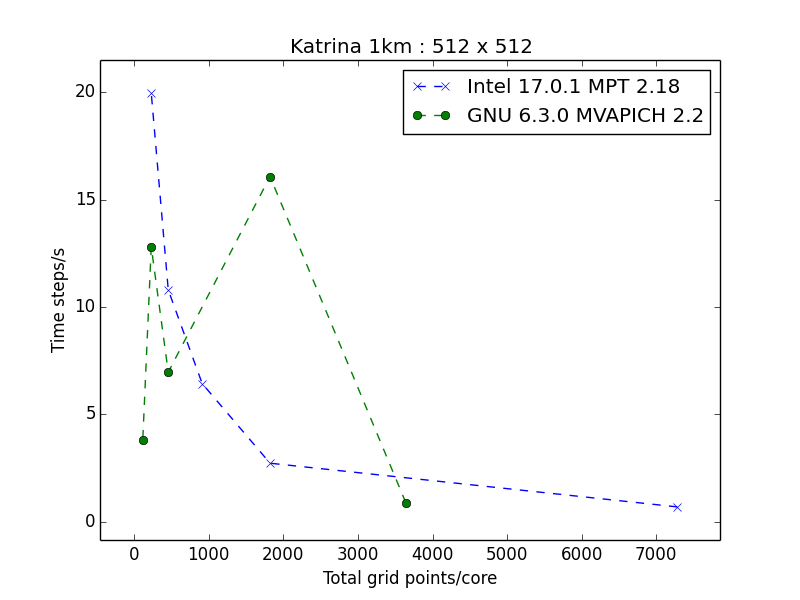
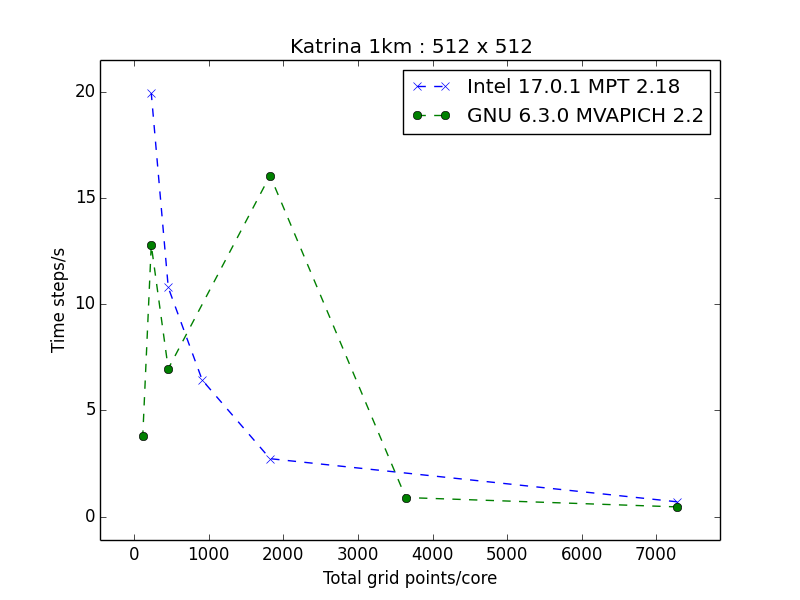
updating results

diff --git a/results/graphs.py b/results/graphs.py
@@ -4,8 +4,8 @@ from matplotlib import pyplot as plt
 avg_sec_30_intel = [0.0515935, 0.0323609,0.020941,0.0159831,0.0139029,0.0152944,0.0199186]
 ncpus_30_intel = [ 36, 72, 144, 288, 576, 1152, 2304 ]
 
-avg_sec_1_gnu = [ 1.11442,0.0622363,0.143558,0.0781376,0.2634571]
-ncpus_1_gnu = [  72, 144, 576, 1152,2304 ]
+avg_sec_1_gnu = [ 2.19155,1.11442,0.0622363,0.143558,0.0781376,0.2634571]
+ncpus_1_gnu = [  36, 72, 144, 576, 1152,2304 ]
 
 avg_sec_1_intel = [1.43894, 0.366497,0.155412,0.0926461,0.0501186]
 ncpus_1_intel = [  36, 144, 288, 576, 1152 ]

diff --git a/results/README.md b/results/README.md
@@ -1,6 +1,17 @@
+
+
 # WRF 3.9.1
 
-## Katrina 1km : Intel 17.0.1+MPT2.18 and GNU 6.3.0+MVAPICH 2.2
+## Scalability Test Summary
+### Simulation Speed
+![katrina](https://github.com/DixitPatel/WRF_Simulation/blob/master/results/Scalability_Speed.png)
+### Total Computation Time
+![katrina](https://github.com/DixitPatel/WRF_Simulation/blob/master/results/Scalability_ComputationTime.png)
+
+
+
+## TODO
+### Katrina 1km : Intel 17.0.1+MPT2.18 and GNU 6.3.0+MVAPICH 2.2
 
 ![1km](https://github.com/DixitPatel/WRF_Simulation/blob/master/results/katrina1km.png)
 
